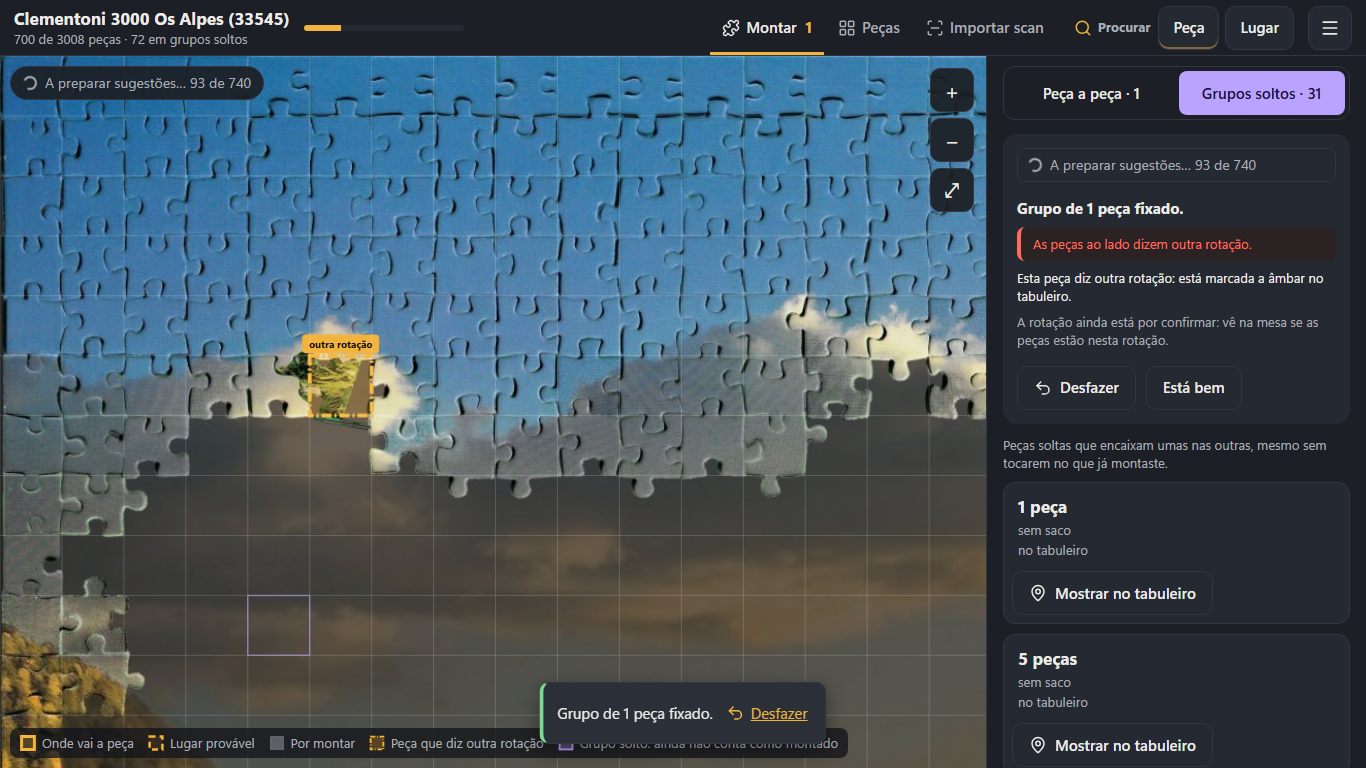
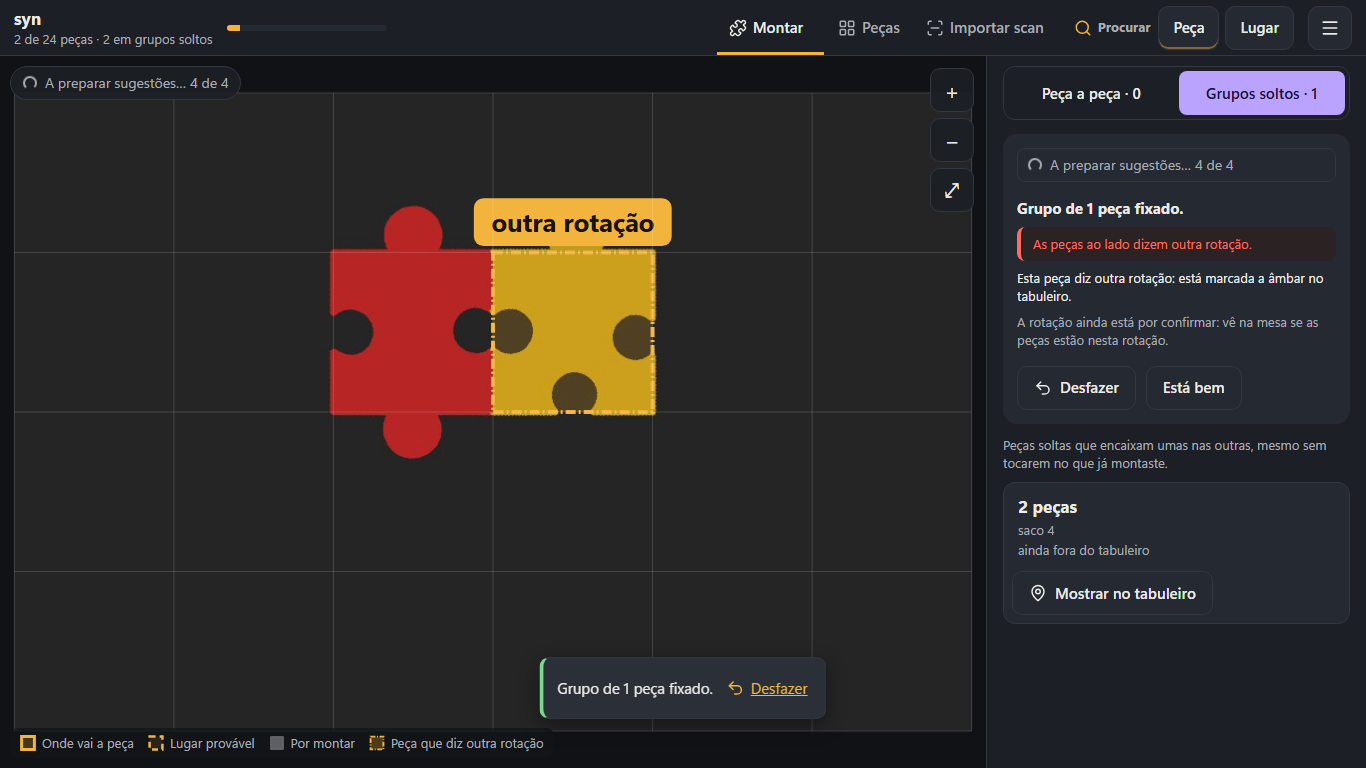
gui: aviso do grupo não tapa a legenda
O aviso do fundo (toast) sobe até ficar acima da legenda do tabuleiro quando
os retângulos se cruzam (posToast, recalculado quando um aviso entra ou sai,
quando a legenda muda de tamanho e quando a janela muda). Teste de layout a
1366x768 e 390 px com a legenda no estado mais comprido. Capturas
F4_depois_aviso_ambar recapturadas (projeto sintético dos testes).

diff --git a/src/web/novo/novo.js b/src/web/novo/novo.js
@@ -1425,7 +1425,31 @@ function renderPrep() {
   $("#progress-txt").textContent = p.texto + (p.N ? ` ${p.n} de ${p.N}` : "");
   $("#pb-n").style.width = frac === null ? "0" : `${Math.round(frac * 100)}%`;       // a barra do topo acompanha a preparação
 }
+/** O aviso do fundo nunca cobre a legenda do tabuleiro (F4): se os retângulos se cruzarem, o aviso sobe até ficar logo
+ * acima da legenda. Corre quando um aviso entra ou sai, quando a legenda muda de tamanho e quando a janela muda. */
+function posToast() {
+  const t = $("#toast"), lg = $("#legend");
+  if (!t || !lg) return;
+  t.style.bottom = "";
+  const L = lg.getBoundingClientRect();
+  if (!L.width || !L.height || !t.children.length) return;
+  for (const el of t.children) {
+    const T = el.getBoundingClientRect();
+    if (T.width && T.height && T.left < L.right && L.left < T.right && T.top < L.bottom && L.top < T.bottom) {
+      t.style.bottom = `${Math.ceil(window.innerHeight - L.top + 8)}px`;
+      return;
+    }
+  }
+}
+function vigiarToast() {
+  const f = () => requestAnimationFrame(posToast);
+  new MutationObserver(f).observe($("#toast"), { childList: true });
+  new MutationObserver(f).observe($("#legend"), { childList: true, subtree: true });
+  if (typeof ResizeObserver === "function") new ResizeObserver(f).observe($("#legend"));
+  window.addEventListener("resize", f);
+}
 async function boot() {
+  vigiarToast();
   $$("#tabs button").forEach((b) => (b.onclick = () => showTab(b.dataset.tab)));
   initSearch();
   $("#lb-close").onclick = () => { $("#lightbox").hidden = true; };

diff --git a/tests/test_gui_novo_f4.py b/tests/test_gui_novo_f4.py
@@ -1387,3 +1387,32 @@ def test_b3_ambar_so_na_celula_da_peca_que_discorda_num_grupo_rodado(gr, browser
 		assert not errs, errs
 	finally:
 		pg.close()
+
+
+@pytest.mark.parametrize("vp", [(1366, 768), (390, 844)])
+def test_aviso_do_fundo_nao_tapa_a_legenda(gr90, browser, vp):
+	"""O aviso do fundo («Grupo de N peça fixado · Desfazer», e os outros) nunca cobre a legenda do tabuleiro, com a
+	legenda no estado mais comprido («Peça que diz outra rotação» visível)."""
+	url, gui, ids = gr90
+	_mostrar(url, ids, "G1")
+	assert _post(url, f"/api/grupos/{ids['G1']}/mover", {"l0": 2, "c0": 4, "rot": 90, "rodado": False})[0] == 200
+	pg, errs = _abrir(browser, url, vp)
+	try:
+		_escolher(pg)
+		pg.click("#g-fixar")
+		pg.click("#g-fixar-sim")
+		pg.wait_for_selector("#g-fixado", timeout=15_000)
+		pg.wait_for_selector("#legend [data-legend='grupo_aviso']", timeout=10_000)
+		pg.evaluate("toast('Um aviso de teste com texto comprido para ocupar largura no fundo do ecrã', true)")
+		pg.wait_for_timeout(300)
+		cx = pg.evaluate("""(() => { const r = (e) => { const b = e.getBoundingClientRect(); return { x: b.x, y: b.y, w: b.width, h: b.height }; };
+			return { leg: r(document.querySelector('#legend')), toasts: [...document.querySelectorAll('#toast > div')].map(r).filter((b) => b.w > 0 && b.h > 0) }; })()""")
+		assert cx["toasts"], "sem aviso visível"
+		L = cx["leg"]
+		assert L["w"] > 0 and L["h"] > 0
+		for T in cx["toasts"]:
+			livre = T["x"] + T["w"] <= L["x"] or L["x"] + L["w"] <= T["x"] or T["y"] + T["h"] <= L["y"] or L["y"] + L["h"] <= T["y"]
+			assert livre, (vp, T, L)
+		assert not errs, errs
+	finally:
+		_fechar(pg.context)
